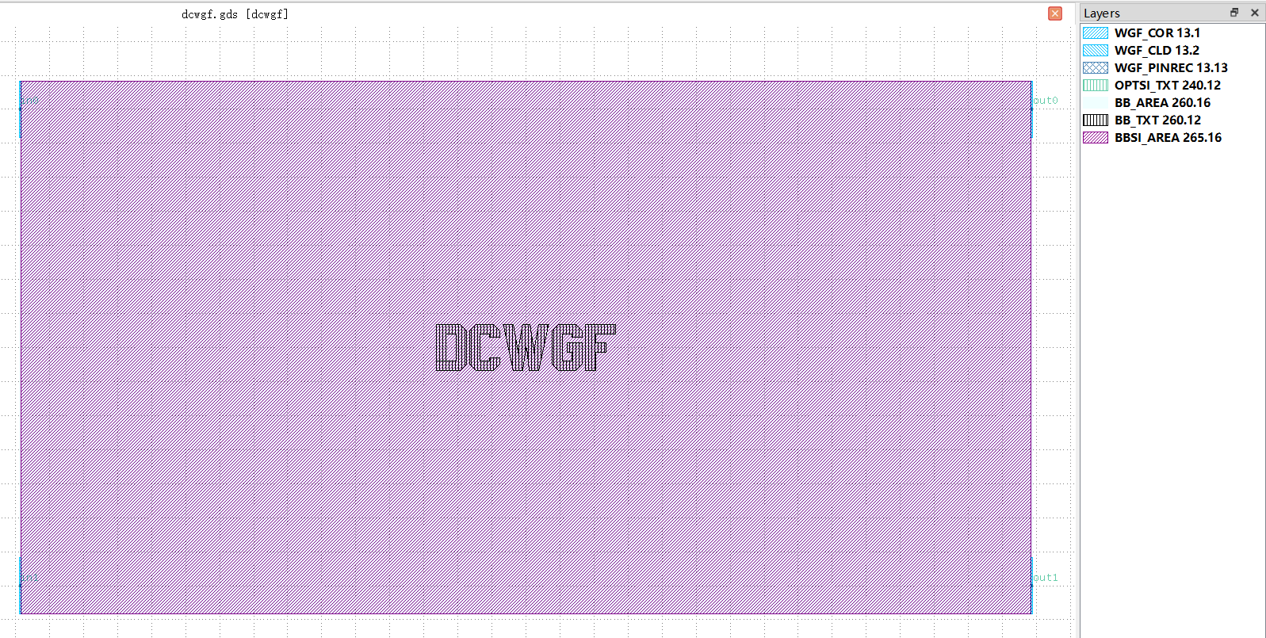
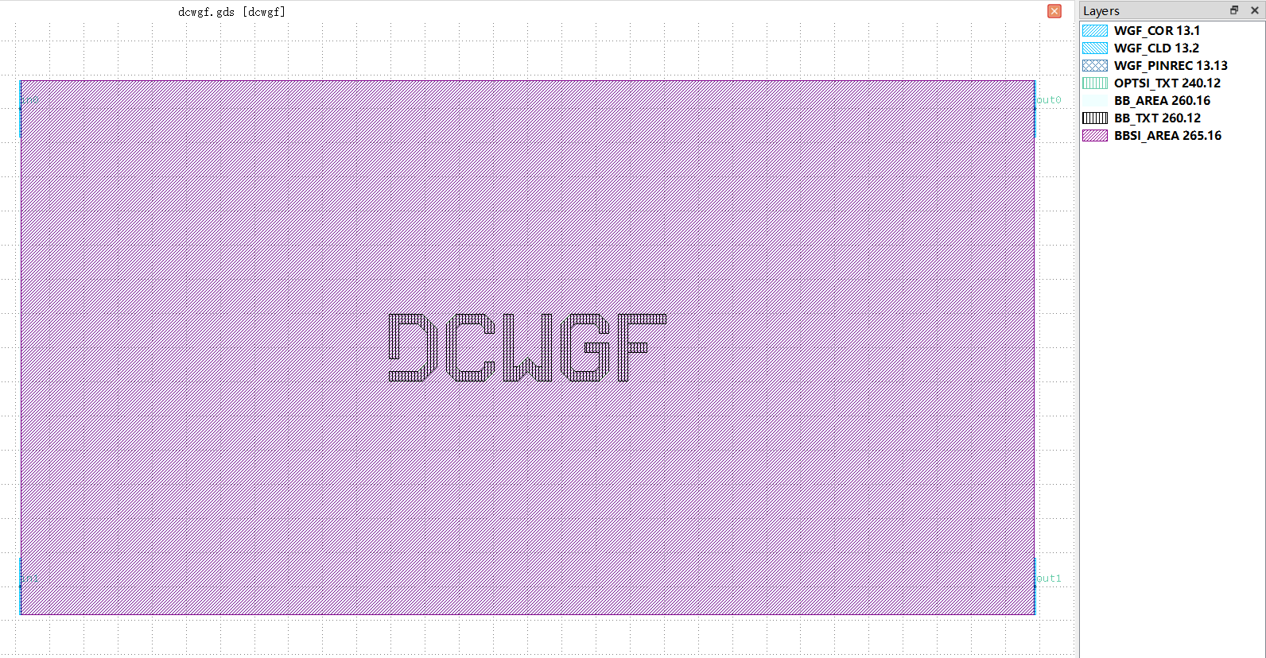
部分修改4

diff --git a/docs/source/component_list/bb_dc.rst b/docs/source/component_list/bb_dc.rst
@@ -33,7 +33,7 @@ dcwgf
 | out1              | TECH.WG.WGF.O.WIRE          | (74.4, -35.0)          | 0           |
 +-------------------+-----------------------------+------------------------+-------------+
 
-dcwgf
+dcwgm
 **********************************************************
 .. image:: ../images/bb_dcwgm.png
 
